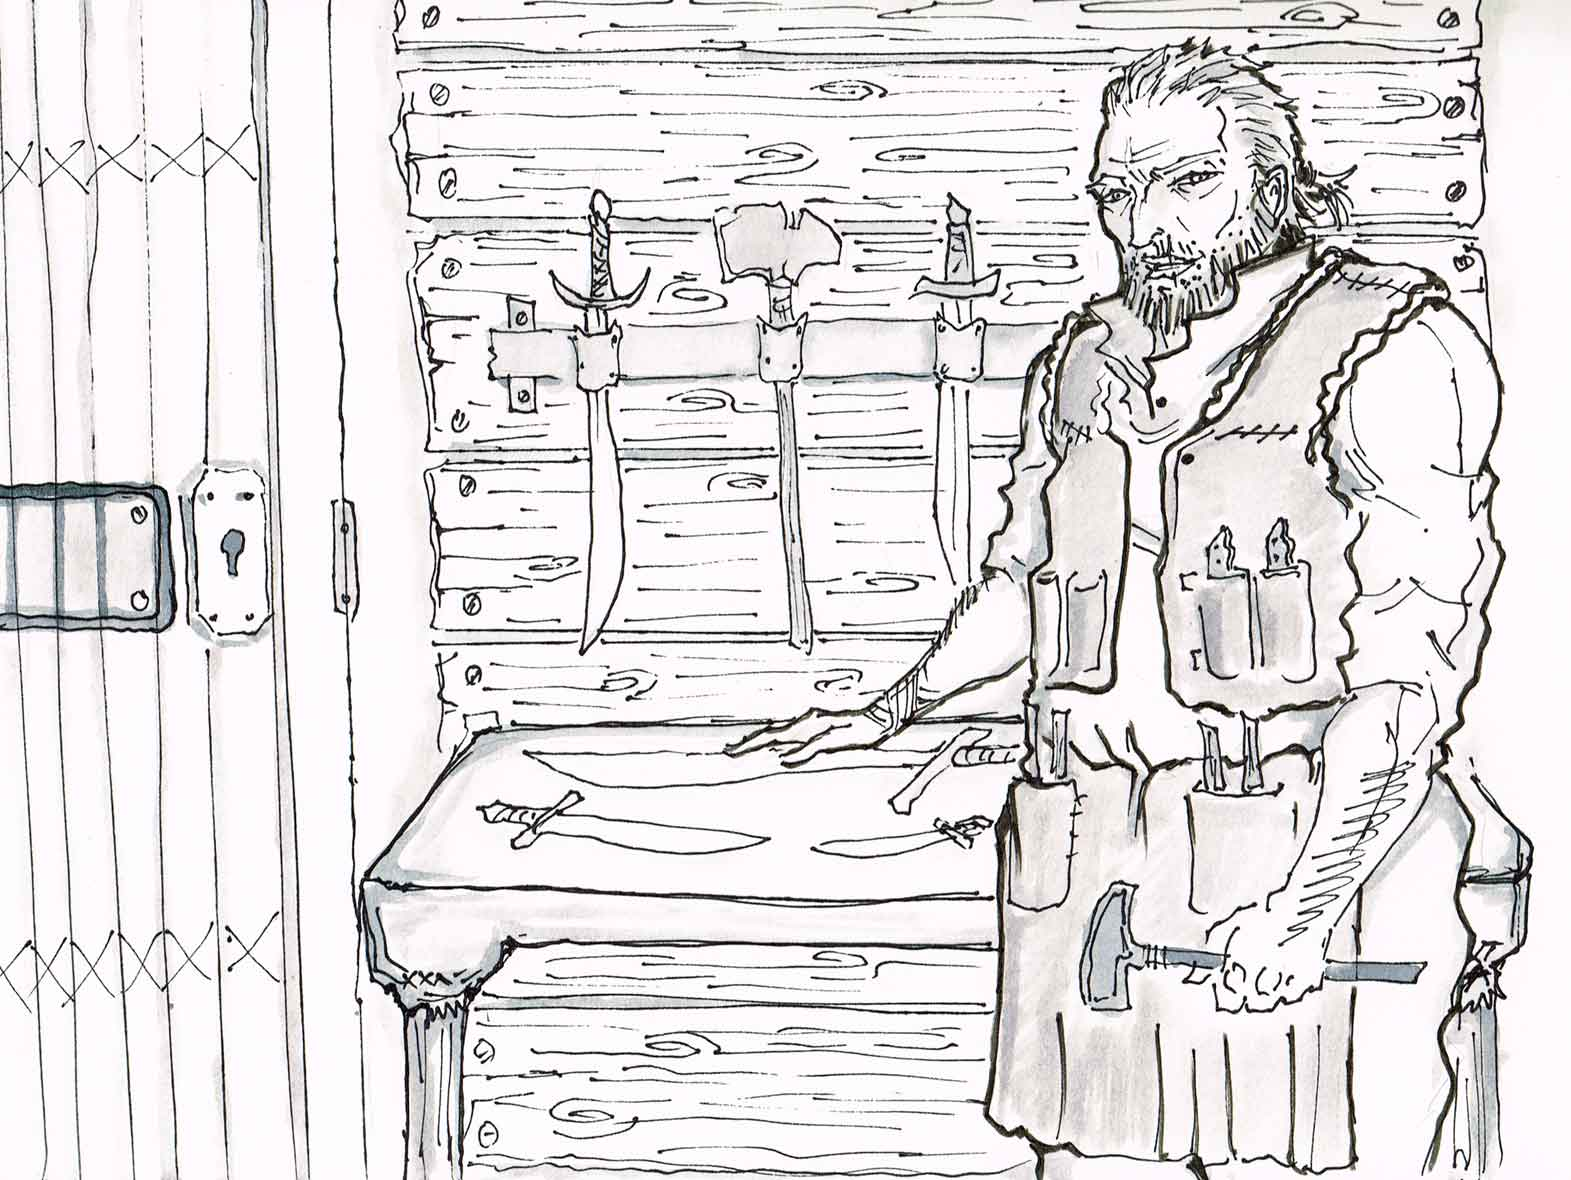
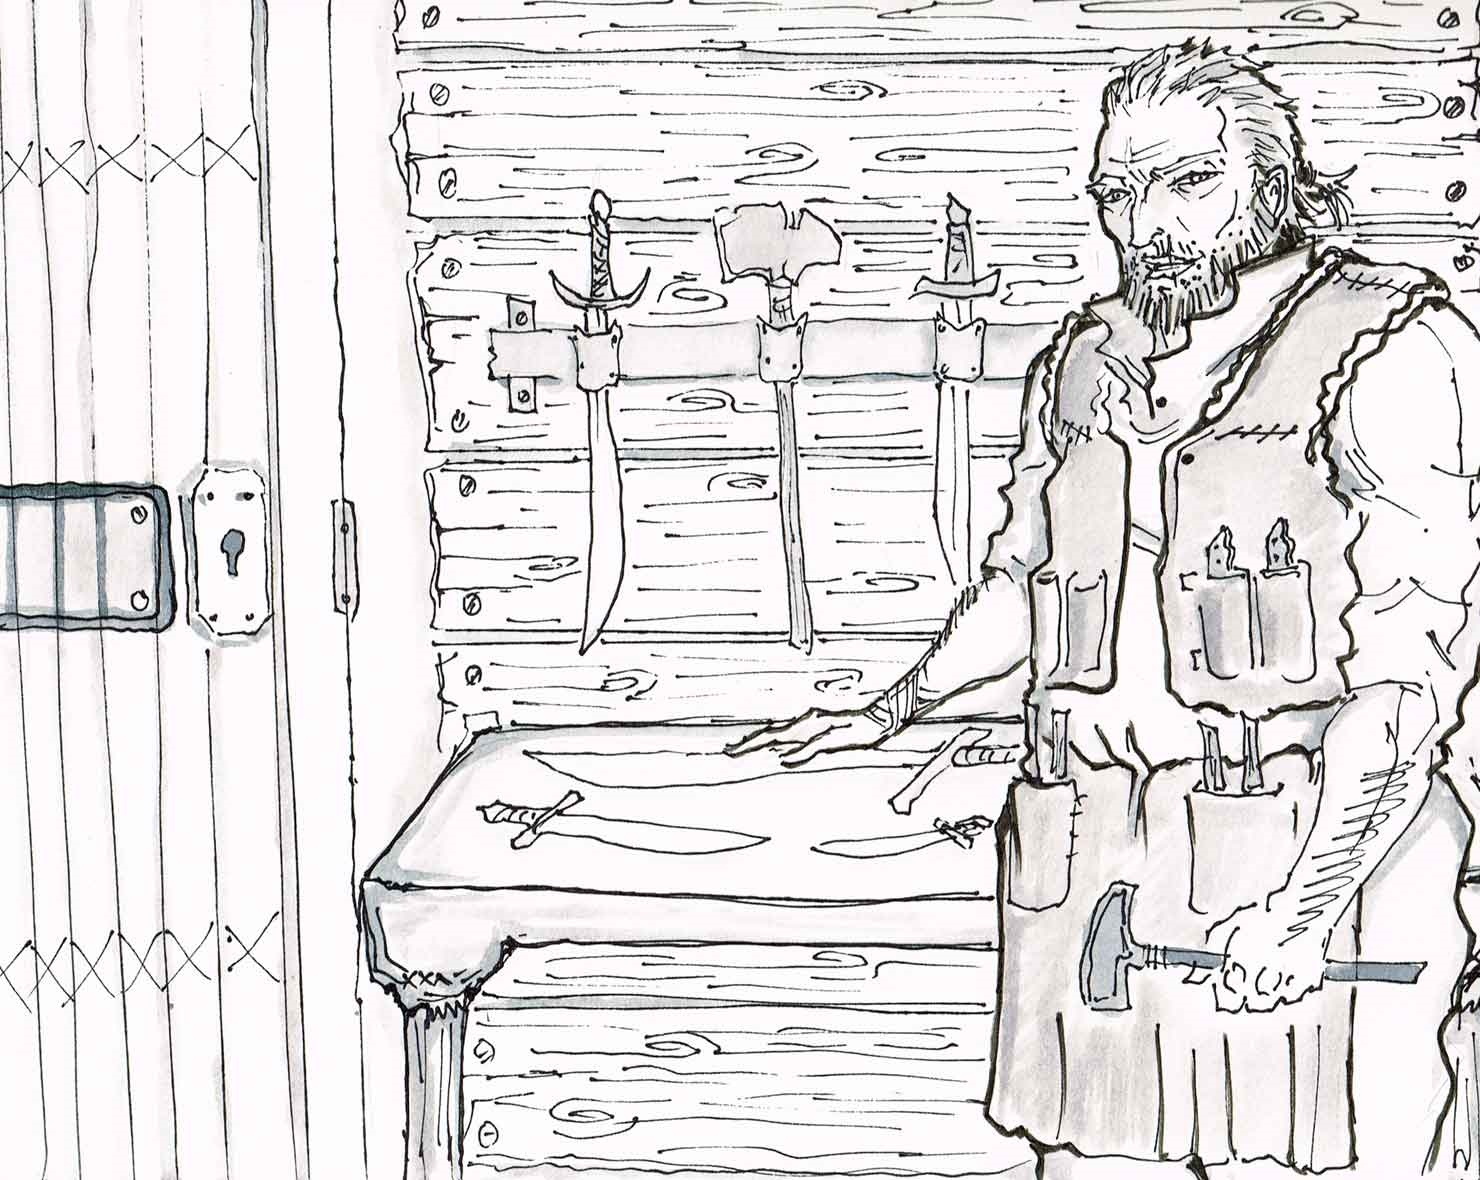
mise à jours diverse

diff --git a/templates/zones/Z6/z6_marche.html b/templates/zones/Z6/z6_marche.html
@@ -21,13 +21,13 @@ ajouter la classe .clickZone pour avoir le curseur
 -->
 <div class="templateOverlay">
     <!-- Lien vers un autre template -->
-    <div id="interieurForgeron" class="clickZone" style="width:11%;height:18%;margin-left:47%;margin-top:30%;"></div>
+    <div id="interieurForgeron" class="clickZone dev" style="width:11%;height:18%;margin-left:47%;margin-top:30%;"></div>
     
     <!-- interaction du template -->
     <div class="indice dialog hide" id="infoChasseur" style="margin-top:34%;margin-left:10%">Il s'agit du stand du chasseur, il ne semble pas être là...</div>
     <div class="indice dialog hide" id="infoPecheur" style="margin-top:34%;margin-left:81%">On dirait l'échoppe du pécheur, personne ne répond.</div>
-    <div id="tenteChasseur" class="clickZone" style="width:15%;height:34%;margin-left:5%;margin-top:30%;"></div>
-    <div id="tentePecheur" class="clickZone" style="width:6%;height:15%;margin-left:92%;margin-top:28%;"></div>
+    <div id="tenteChasseur" class="clickZone dev" style="width:15%;height:34%;margin-left:5%;margin-top:28%;"></div>
+    <div id="tentePecheur" class="clickZone dev" style="width:6%;height:15%;margin-left:92%;margin-top:30%;"></div>
     
 </div>
 

diff --git a/templates/zones/Z6/I4/i4_forge.html b/templates/zones/Z6/I4/i4_forge.html
@@ -1,6 +1,6 @@
 <!-- image de fond -->
 <div class="narativeBackground">
-    <img src="templates/zones/Z6/I4/I4-forge_web.jpg" style="max-width:1571px;max-height:1180px"/>
+    <img src="templates/zones/Z6/I4/I4-forge_web.jpg"/>
 </div>
 <!-- ambiance -->
 <audio loop autoplay>
@@ -21,7 +21,7 @@ ajouter la classe .clickZone pour avoir le curseur
 -->
 <div class="templateOverlay">
     <!-- Lien vers un autre template -->
-    <div id="personnageForgeron" class="clickZone dev" style="width:22%;height:94%;margin-left:54%;margin-top:2%;"></div>
+    <div id="personnageForgeron" class="clickZone dev" style="width:22%;height:94%;margin-left:66%;margin-top:2%;"></div>
     
     <!-- interaction du template -->
 

diff --git a/js/TemplateManager.js b/js/TemplateManager.js
@@ -65,8 +65,14 @@ TemplateManager.LoadTemplateHMTL = function ( templateURL) {
             $("#html_content").html(reponse);
             // insert le bouton retour sur la carte
             $("#html_content").prepend('<div class="btn_retour"></div>');
+            
+            
             $("#html_wrapper").fadeIn();
-            $("#html_content").fadeIn();
+            $("#html_content").fadeIn(function() {
+                // dispose le template quand les contenus HMTL sont affichés
+                TemplateManager.disposeTemplate();
+            });
+            
         });        
     });
 }
